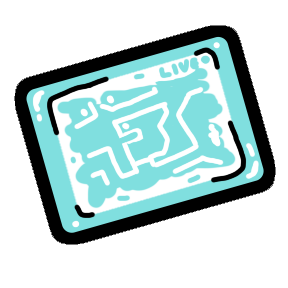
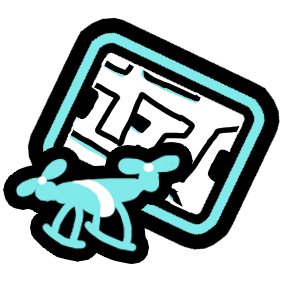
Bug fixes

diff --git a/TownOfUsMiraJK/Patches/SeeVotesPatch.cs b/TownOfUsMiraJK/Patches/SeeVotesPatch.cs
@@ -1,0 +1,92 @@
+using AmongUs.GameOptions;
+using HarmonyLib;
+using MiraAPI.GameOptions;
+using MiraAPI.Modifiers;
+using MiraAPI.Voting;
+using System.Reflection;
+using TownOfUs.Events.Misc;
+using TownOfUs.Modifiers.Neutral;
+using TownOfUs.Options;
+using TownOfUs.Patches.Options;
+using TownOfUs.Roles.Crewmate;
+using TownOfUs.Roles.Neutral;
+using TownOfUs.Utilities;
+using TownOfUsMiraJK.Modifiers;
+using TownOfUsMiraJK.Roles.Crewmate;
+using TownOfUsMiraJK.Roles.Impostor;
+using UnityEngine;
+
+namespace TownOfUsMiraJK.Patches;
+
+[HarmonyPatch]
+public static class SeeVotesPatch
+{
+    [HarmonyPatch(typeof(DeadSeeVoteColorsPatch), nameof(DeadSeeVoteColorsPatch.Prefix))]
+    [HarmonyPrefix]
+    public static bool Prefix([HarmonyArgument(0)] MeetingHud instance, [HarmonyArgument(1)] NetworkedPlayerInfo voterPlayer, [HarmonyArgument(2)] int index, [HarmonyArgument(3)] Transform parent)
+    {
+        var spriteRenderer = GameObject.Instantiate(instance.PlayerVotePrefab);
+        var player = MiscUtils.PlayerById(voterPlayer.PlayerId);
+        var suspect = parent.gameObject.GetComponent<PlayerVoteArea>();
+        if (PlayerControl.LocalPlayer.Data.Role is ProsecutorRole)
+        {
+            if (player?.Data.Role is SecretaryRole secretary && secretary.VotedFor.Count > 0)
+            {
+                if (secretary.VotesShown > 1 + KnightedEvents.ExtraKnightVotes.Count(x => x.Voter == secretary.Player.PlayerId) || (secretary.VotedFor.Count > 0 && secretary.VotedFor.FirstOrDefault() != suspect.TargetPlayerId))
+                {
+                    PlayerMaterial.SetColors(Palette.DisabledGrey, spriteRenderer);
+                }
+                else
+                {
+                    PlayerMaterial.SetColors(voterPlayer.DefaultOutfit.ColorId, spriteRenderer);
+                    secretary.VotesShown++;
+                }
+            }
+            else
+            {
+                PlayerMaterial.SetColors(voterPlayer.DefaultOutfit.ColorId, spriteRenderer);
+            }
+        }
+        else if (player != null && player.Data.Role is ProsecutorRole pros && pros.HasProsecuted &&
+                 !PlayerControl.LocalPlayer.Data.IsDead)
+        {
+            PlayerMaterial.SetColors(Palette.DisabledGrey, spriteRenderer);
+        }
+        else if (GameOptionsManager.Instance.currentNormalGameOptions.AnonymousVotes &&
+                 (!OptionGroupSingleton<PostmortemOptions>.Instance.DeadSeeVotes || !PlayerControl.LocalPlayer.Data.IsDead))
+        {
+            PlayerMaterial.SetColors(Palette.DisabledGrey, spriteRenderer);
+        }
+        else
+        {
+            if (player?.Data.Role is SecretaryRole secretary && secretary.VotedFor.Count > 0)
+            {
+                if (secretary.VotesShown > 1 + KnightedEvents.ExtraKnightVotes.Count(x => x.Voter == secretary.Player.PlayerId) || (secretary.VotedFor.Count > 0 && secretary.VotedFor.FirstOrDefault() != suspect.TargetPlayerId))
+                {
+                    PlayerMaterial.SetColors(Palette.DisabledGrey, spriteRenderer);
+                }
+                else
+                {
+                    PlayerMaterial.SetColors(voterPlayer.DefaultOutfit.ColorId, spriteRenderer);
+                    secretary.VotesShown++;
+                }
+            }
+            else
+            {
+                PlayerMaterial.SetColors(voterPlayer.DefaultOutfit.ColorId, spriteRenderer);
+            }
+        }
+
+        spriteRenderer.transform.SetParent(parent);
+        spriteRenderer.transform.localScale = Vector3.zero;
+        var component = parent.GetComponent<PlayerVoteArea>();
+        if (component != null)
+        {
+            spriteRenderer.material.SetInt(PlayerMaterial.MaskLayer, component.MaskLayer);
+        }
+
+        instance.StartCoroutine(Effects.Bloop(index * 0.3f, spriteRenderer.transform));
+        parent.GetComponent<VoteSpreader>().AddVote(spriteRenderer);
+        return false;
+    }
+}

diff --git a/TownOfUsMiraJK/Events/Crewmate/SecretaryEvents.cs b/TownOfUsMiraJK/Events/Crewmate/SecretaryEvents.cs
@@ -8,6 +8,7 @@ using MiraAPI.Modifiers;
 using MiraAPI.Roles;
 using MiraAPI.Utilities;
 using MiraAPI.Voting;
+using TownOfUs.Events.Misc;
 using TownOfUs.Modifiers;
 using TownOfUs.Options.Roles.Crewmate;
 using TownOfUs.Utilities;
@@ -17,6 +18,54 @@ namespace TownOfUsMiraJK.Events.Crewmate;
 
 public static class SecretaryEvents
 {
+    [RegisterEvent(1)]
+    public static void ProcessVotesEventHandler(ProcessVotesEvent @event)
+    {
+        var votes = @event.Votes.ToList();
+
+        if (!GameOptionsManager.Instance.currentNormalGameOptions.AnonymousVotes)
+        {
+            foreach (var secretary in CustomRoleUtils.GetActiveRolesOfType<SecretaryRole>())
+            {
+                if (secretary.StoredVote)
+                {
+                    var vote = votes.FirstOrDefault(x => x.Voter == secretary.Player.PlayerId && x.Suspect == MeetingHud.Instance.SkipVoteButton.TargetPlayerId);
+                    votes.Remove(vote);
+                }
+            }
+        }
+
+        KnightedEvents.ExtraKnightVotes.Clear();
+        if (KnightedEvents.ShowVotes)
+        {
+            return;
+        }
+
+        var baseExtraVotes = (int)OptionGroupSingleton<MonarchOptions>.Instance.VotesPerKnight;
+
+        foreach (var player in PlayerControl.AllPlayerControls)
+        {
+            var knightModifiers = player.GetModifiers<KnightedModifier>()?.ToList();
+            if (knightModifiers == null || knightModifiers.Count == 0)
+                continue;
+
+            var vote = votes.FirstOrDefault(v => v.Voter == player.PlayerId);
+            if (vote == default)
+                continue;
+
+            var totalBonusVotes = knightModifiers.Count * baseExtraVotes;
+
+            for (var i = 0; i < totalBonusVotes; i++)
+            {
+                var extraVote = new CustomVote(vote.Voter, vote.Suspect);
+                votes.Add(extraVote);
+                KnightedEvents.ExtraKnightVotes.Add(extraVote);
+            }
+        }
+
+        @event.ExiledPlayer = VotingUtils.GetExiled(votes, out _);
+    }
+
     [RegisterEvent(1000)]
     public static void BeforeLocalVoteEvent(BeforeVoteEvent @event)
     {

diff --git a/TownOfUsMiraJK/Roles/Crewmate/SecretaryRole.cs b/TownOfUsMiraJK/Roles/Crewmate/SecretaryRole.cs
@@ -33,6 +33,7 @@ public sealed class SecretaryRole(IntPtr cppPtr) : CrewmateRole(cppPtr), ITouCre
     public bool NormalVoteUsed { get; set; }
     public bool StoredVote { get; set; }
     public List<byte> VotedFor { get; set; } = new();
+    public int VotesShown { get; set; }
 
     public void FixedUpdate()
     {
@@ -121,6 +122,7 @@ public sealed class SecretaryRole(IntPtr cppPtr) : CrewmateRole(cppPtr), ITouCre
 
         StoredVote = false;
         NormalVoteUsed = false;
+        VotesShown = 0;
         VotedFor = new();
         Player.GetVoteData().SetRemainingVotes(VotesStored + 1);
 
@@ -180,6 +182,20 @@ public sealed class SecretaryRole(IntPtr cppPtr) : CrewmateRole(cppPtr), ITouCre
             secretaryRole.NormalVoteUsed = true;
         }
         secretaryRole.StoredVote = true;
+        if (!GameOptionsManager.Instance.currentNormalGameOptions.AnonymousVotes)
+        {
+            if (OptionGroupSingleton<MonarchOptions>.Instance.ShowKnightedVotes && plr.HasModifier<KnightedModifier>() && secretaryRole.VotedFor.Count == 0)
+            {
+                for (int i = 0; i < (int)OptionGroupSingleton<MonarchOptions>.Instance.VotesPerKnight + 1; i++)
+                {
+                    plr.GetVoteData().VoteForPlayer(MeetingHud.Instance.SkipVoteButton.TargetPlayerId);
+                }
+            }
+            else
+            {
+                plr.GetVoteData().VoteForPlayer(MeetingHud.Instance.SkipVoteButton.TargetPlayerId);
+            }
+        }
     }
     [MethodRpc((uint)TownOfUsJKRpc.SecretaryVote)]
     public static void RpcVote(PlayerControl plr, byte voted)
@@ -194,16 +210,7 @@ public sealed class SecretaryRole(IntPtr cppPtr) : CrewmateRole(cppPtr), ITouCre
             return;
         }
 
-        if (secretaryRole.NormalVoteUsed)
-        {
-            secretaryRole.VotesStored--;
-        }
-        else
-        {
-            secretaryRole.NormalVoteUsed = true;
-        }
-        secretaryRole.VotedFor.Add(voted);
-        if (secretaryRole.VotedFor.Count == 0 && OptionGroupSingleton<MonarchOptions>.Instance.ShowKnightedVotes && plr.HasModifier<KnightedModifier>())
+        if (secretaryRole.VotedFor.Count == 0 && OptionGroupSingleton<MonarchOptions>.Instance.ShowKnightedVotes && plr.HasModifier<KnightedModifier>() && secretaryRole.VotedFor.Count == 0)
         {
             for (int i = 0; i < (int)OptionGroupSingleton<MonarchOptions>.Instance.VotesPerKnight + 1; i++)
             {
@@ -214,6 +221,16 @@ public sealed class SecretaryRole(IntPtr cppPtr) : CrewmateRole(cppPtr), ITouCre
         {
             plr.GetVoteData().VoteForPlayer(voted);
         }
+
+        if (secretaryRole.NormalVoteUsed)
+        {
+            secretaryRole.VotesStored--;
+        }
+        else
+        {
+            secretaryRole.NormalVoteUsed = true;
+        }
+        secretaryRole.VotedFor.Add(voted);
         if (plr.AmOwner)
         {
             var tmpro = secretaryRole.StoreButton?.gameObject.GetComponentInChildren<TextMeshPro>();

diff --git a/TownOfUsMiraJK/Modules/SanctifierCircle.cs b/TownOfUsMiraJK/Modules/SanctifierCircle.cs
@@ -30,7 +30,7 @@ public static class SanctifierCircleManager
     {
         foreach (var circle in SanctifierCircles)
         {
-            circle?.gameObject?.DeepDestroy();
+            circle?.gameObject?.Destroy();
         }
         SanctifierCircles.Clear();
     }
@@ -96,7 +96,7 @@ public class SanctifierCircle(IntPtr ptr) : MonoBehaviour(ptr)
     }
     public void Destroy()
     {
-        gameObject?.DeepDestroy();
+        gameObject?.Destroy();
         SanctifierCircleManager.SanctifierCircles.Remove(this);
     }
 }

diff --git a/TownOfUsMiraJK/TownOfUsMiraJKColors.cs b/TownOfUsMiraJK/TownOfUsMiraJKColors.cs
@@ -19,6 +19,10 @@ public static class TownOfUsMiraJKColors
     public static Color TavernKeeper => TownOfUsColors.UseBasic ? Palette.CrewmateBlue : new Color32(140, 69, 20, 255);
     public static Color Undercover => TownOfUsColors.UseBasic ? Palette.CrewmateBlue : new Color32(0, 38, 0, 255);
     public static Color Watcher => TownOfUsColors.UseBasic ? Palette.CrewmateBlue : new Color32(128, 223, 223, 255);
+    public static Color Constable => TownOfUsColors.UseBasic ? Palette.CrewmateBlue : new Color32(33, 66, 172, 255);
+    public static Color Interrogator => TownOfUsColors.UseBasic ? Palette.CrewmateBlue : new Color32(87, 109, 161, 255);
+    public static Color Stalker => TownOfUsColors.UseBasic ? Palette.CrewmateBlue : new Color32(239, 76, 245, 255);
+    public static Color Alchemist => TownOfUsColors.UseBasic ? Palette.CrewmateBlue : new Color32(167, 25, 210, 255);
 
     // Neutral Colors
     public static Color Ammit => new Color32(85, 107, 47, 255);

diff --git a/TownOfUsMiraJK/Modifiers/BodyguardGuardModifier.cs b/TownOfUsMiraJK/Modifiers/BodyguardGuardModifier.cs
@@ -2,6 +2,7 @@
 using MiraAPI.GameOptions;
 using MiraAPI.Hud;
 using MiraAPI.Modifiers;
+using Reactor.Utilities.Extensions;
 using TownOfUs.Buttons.Crewmate;
 using TownOfUs.Events.TouEvents;
 using TownOfUs.Utilities;
@@ -38,7 +39,7 @@ public sealed class BodyguardGuardModifier(PlayerControl bodyguard) : BaseShield
     {
         if (GuardLineComp != null)
         {
-            GuardLineComp?.gameObject?.DeepDestroy();
+            GuardLineComp?.gameObject?.Destroy();
         }
     }
 

diff --git a/TownOfUsMiraJK/Modifiers/CrusaderFortifyModifier.cs b/TownOfUsMiraJK/Modifiers/CrusaderFortifyModifier.cs
@@ -2,6 +2,7 @@
 using MiraAPI.GameOptions;
 using MiraAPI.Hud;
 using MiraAPI.Modifiers;
+using Reactor.Utilities.Extensions;
 using TownOfUs.Buttons.Crewmate;
 using TownOfUs.Events.TouEvents;
 using TownOfUs.Utilities;
@@ -38,7 +39,7 @@ public sealed class CrusaderFortifyModifier(PlayerControl crusader) : BaseShield
     {
         if (GuardLineComp != null)
         {
-            GuardLineComp?.gameObject?.DeepDestroy();
+            GuardLineComp?.gameObject?.Destroy();
         }
     }
 

diff --git a/TownOfUsMiraJK/Buttons/Modifier/ExplorerVentButton.cs b/TownOfUsMiraJK/Buttons/Modifier/ExplorerVentButton.cs
@@ -17,7 +17,7 @@ using UnityEngine;
 
 namespace TownOfUsMiraJK.Buttons.Modifier;
 
-public sealed class ExplorerVentButton : TownOfUsVentRoleButton<Vent>
+public sealed class ExplorerVentButton : TownOfUsTargetButton<Vent>
 {
     public override string Name => TranslationController.Instance.GetStringWithDefault(StringNames.VentLabel, "Vent");
     public override BaseKeybind Keybind => Keybinds.VentAction;

diff --git a/TownOfUsMiraJK/Events/Neutral/AmmitEvents.cs b/TownOfUsMiraJK/Events/Neutral/AmmitEvents.cs
@@ -44,7 +44,7 @@ public static class AmmitEvents
     {
         foreach (var modifier in ModifierUtils.GetActiveModifiers<AmmitDevouredModifier>())
         {
-            if (!modifier.Player.HasModifier<InvulnerabilityModifier>() && !modifier.Player.HasModifier<BaseShieldModifier>())
+            if (!modifier.Player.HasModifier<InvulnerabilityModifier>() && !modifier.Player.HasModifier<BaseShieldModifier>() && !modifier.Player.HasModifier<FirstDeadShield>())
             {
                 DeathHandlerModifier.UpdateDeathHandlerImmediate(modifier.Player, TouLocale.Get("DiedToAmmit"),
                     DeathEventHandlers.CurrentRound, DeathHandlerOverride.SetFalse,

diff --git a/TownOfUsMiraJK/Modifiers/NecromancerArrowModifier.cs b/TownOfUsMiraJK/Modifiers/NecromancerArrowModifier.cs
@@ -62,7 +62,7 @@ public sealed class NecromancerArrowModifier(DeadBody deadBody, Color color) : T
     {
         if (!_arrow.IsDestroyedOrNull())
         {
-            _arrow?.gameObject.DeepDestroy();
+            _arrow?.gameObject.Destroy();
             _arrow?.Destroy();
         }
     }

diff --git a/TownOfUsMiraJK/Modifiers/PirateDuelModifier.cs b/TownOfUsMiraJK/Modifiers/PirateDuelModifier.cs
@@ -34,7 +34,7 @@ public sealed class PirateDuelModifier(PlayerControl pirate) : BaseModifier
     public override void OnDeactivate()
     {
         base.OnDeactivate();
-        DuelButton?.DeepDestroy();
+        DuelButton?.Destroy();
     }
 
     public bool IsExempt(PlayerVoteArea voteArea)

diff --git a/TownOfUsMiraJK/Modifiers/ReaperArrowModifier.cs b/TownOfUsMiraJK/Modifiers/ReaperArrowModifier.cs
@@ -62,7 +62,7 @@ public sealed class ReaperArrowModifier(DeadBody deadBody, Color color) : TimedM
     {
         if (!_arrow.IsDestroyedOrNull())
         {
-            _arrow?.gameObject.DeepDestroy();
+            _arrow?.gameObject.Destroy();
             _arrow?.Destroy();
         }
     }